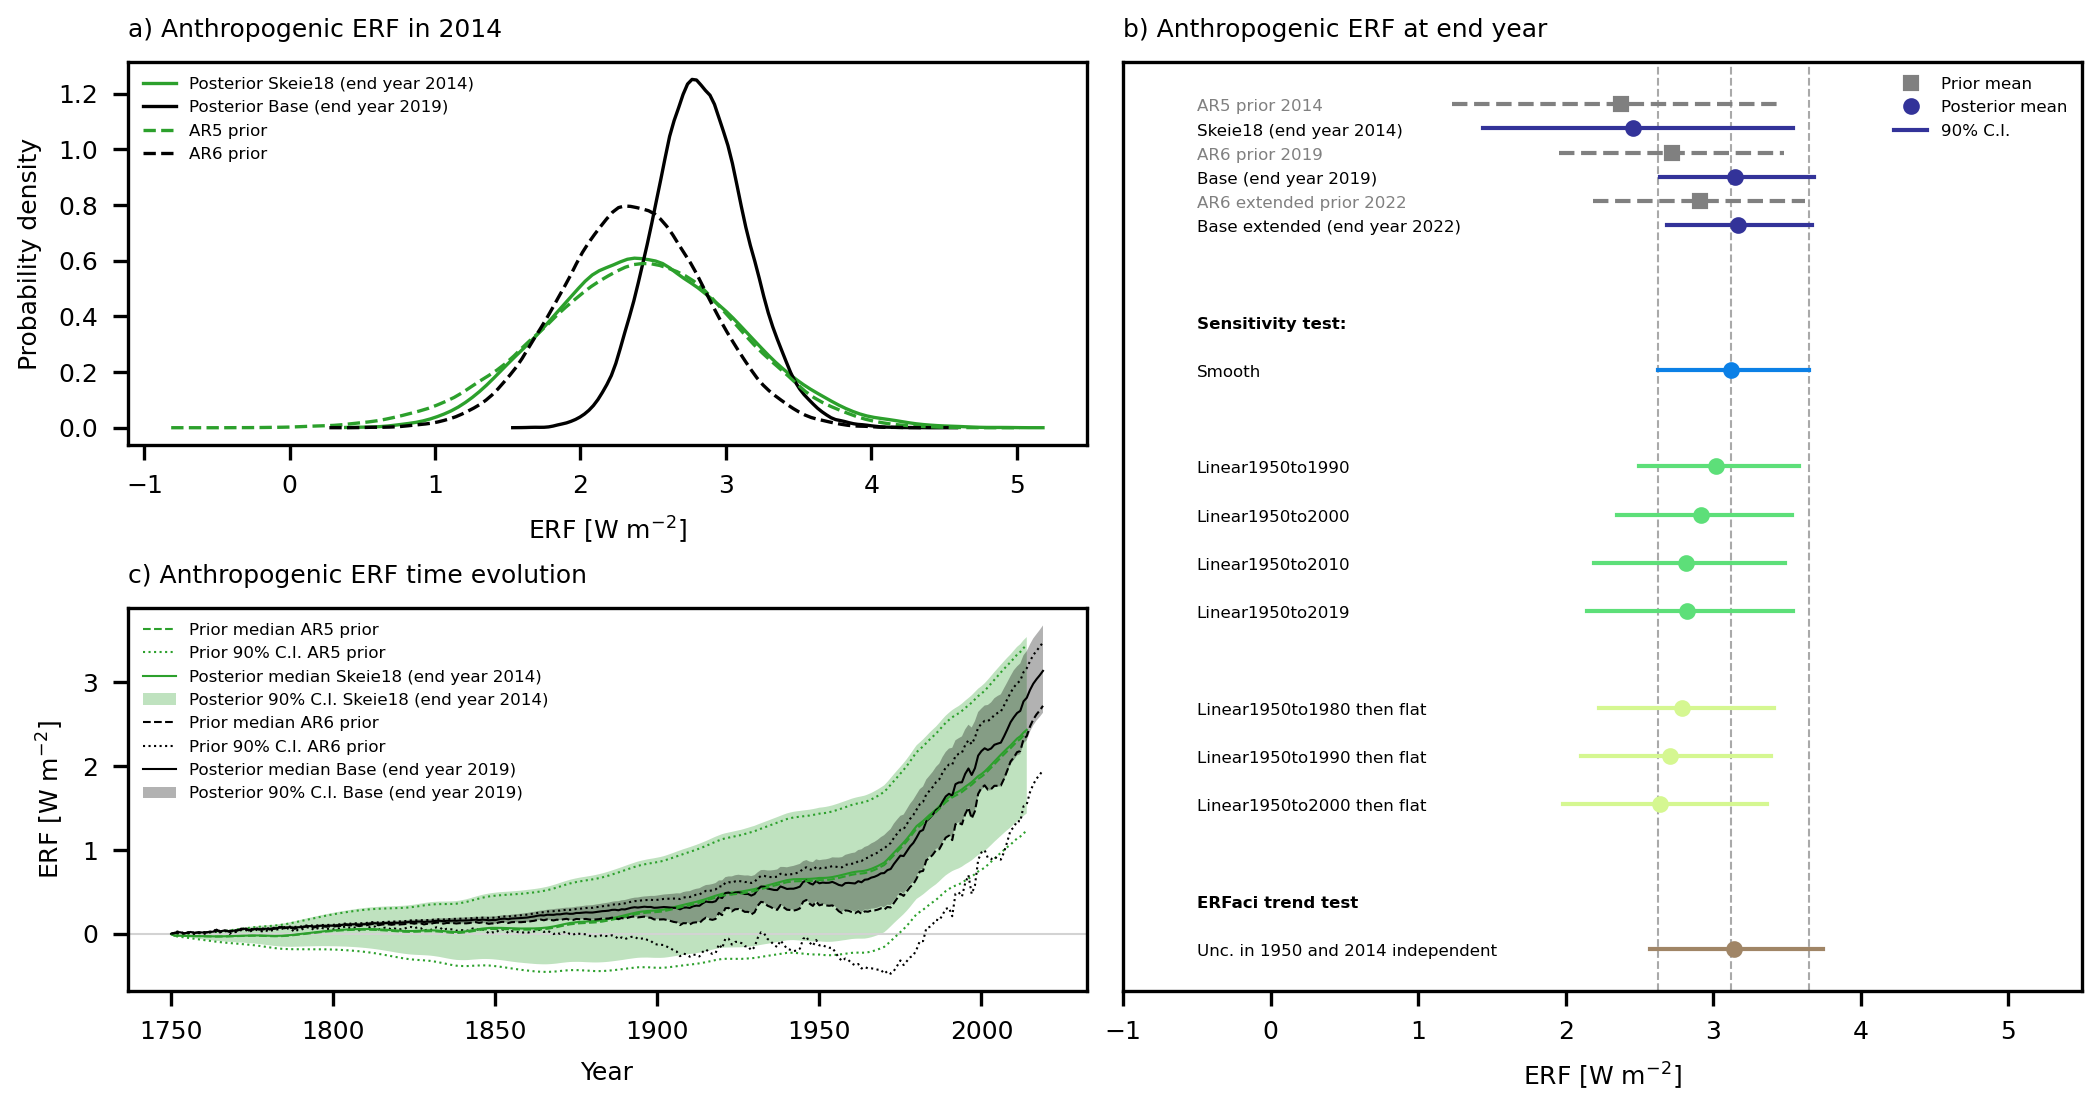
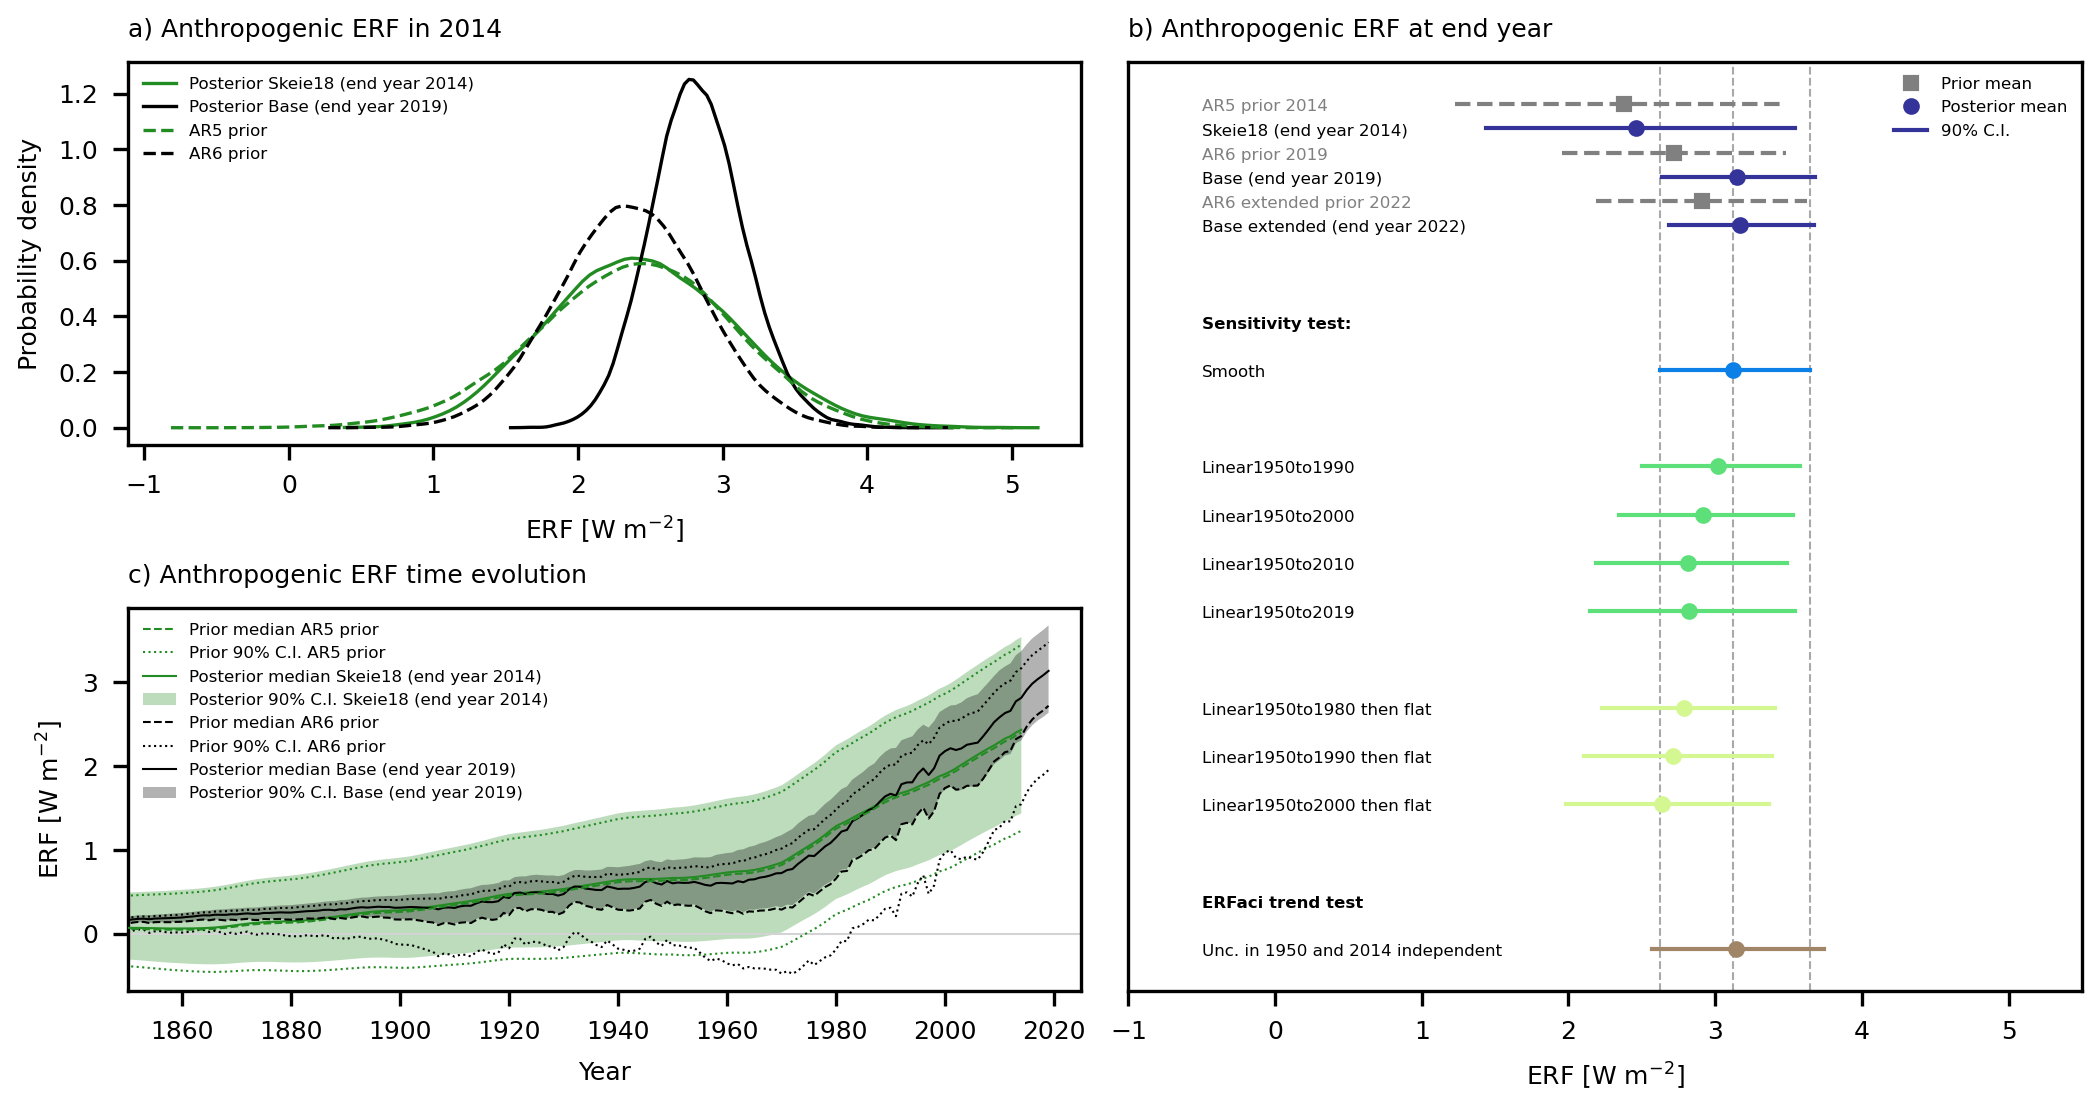
modified panel c ERF fig and added erf_ecs plotting script

diff --git a/scripts_for_figures/plot_heatmap_erf_ecsinf.py b/scripts_for_figures/plot_heatmap_erf_ecsinf.py
@@ -1,0 +1,114 @@
+import numpy as np
+import matplotlib
+import matplotlib.pyplot as plt
+import pandas as pd
+
+from dict_for_simulations import dict_for_simulations
+
+plt.rcParams['font.size'] = 6
+plt.rcParams['figure.dpi'] = 300
+
+def plot_heatmap():
+
+    
+    #Read data climate sensitivity:
+    path_ecs = '/div/qbo/utrics/ClimateSensitivity/updateAR6/scripts_other/ECS_useCO2ERF/results_csv/'
+    filename = 'post_ecs_inf_'+scen+'.csv'
+    post_ecs = pd.read_csv(path_ecs+filename,index_col=0)
+    post_ecs = post_ecs['0']
+    print(post_ecs)
+
+    #Read data on ERF in end year.
+    path_erf = '/div/qbo/utrics/ClimateSensitivity/updateAR6/scripts_other/ERFtrend/results_csv/'
+    filename = 'rf_posterior_timeseriesaero'+scen+'.csv'
+    post_erf = pd.read_csv(path_erf+filename,index_col=0)
+    post_erf = post_erf.loc[year_end]
+    print(post_erf)
+    
+    
+    
+    #######################################################
+    samples = len(post_ecs.index)
+    print(samples)
+    bin = (int(samples*0.001))
+    print(bin)
+
+        
+    N_bins = bin #(int(samples*0.001))
+    
+    yval = post_erf.values #post_rf_glob.values.T
+    xval = post_ecs.values #.T
+    
+
+    # Construct 2D histogram from data using the 'plasma' colormap
+    h=ax.hist2d(xval, yval, bins=N_bins, cmap='plasma',cmin=1,vmax=400)
+
+    # Plot a colorbar with label.
+    cb = plt.colorbar(h[3],ax=ax)
+    cb.set_label('Number of entries')
+
+    # Add title and labels to plot.
+    ax.set_title(letter + scen_list_out[scen],loc='left')
+    ax.set_xlabel('Inferred Effective Climate Sensitivity [K]')
+    ax.set_ylabel('Aerosol ERF [W m$^{-1}$] in '+ str(year_end))
+
+
+    ##############Original prior file
+    path = '/div/qbo/utrics/RadiativeForcing/AR6_extended_2022/'
+    filename = 'ERF_p05_aggregates_1750-2022.csv'
+    rf_ar6_perc05 = pd.read_csv(path+filename,index_col=0)
+    
+    filename = 'ERF_p95_aggregates_1750-2022.csv'
+    rf_ar6_perc95 = pd.read_csv(path+filename,index_col=0)
+    
+    
+    ax.axhline(rf_ar6_perc05['aerosol'].loc[year_end+0.5],linestyle='--',color='gray')
+    ax.axhline(rf_ar6_perc95['aerosol'].loc[year_end+0.5],linestyle='--',color='gray')
+    
+    ax.set_xlim([0,7])
+    ax.set_ylim([-2.5,1])
+
+
+
+print('Start')
+#fig, axs = plt.subplots(nrows=2,ncols=4,sharex=True,figsize=(20,8))
+scen_list_out,scen_colorlist =  dict_for_simulations()
+
+fig, axs = plt.subplots(nrows=1, ncols=2, figsize=(9/1.5,4/1.75)) 
+
+year_end = 2022
+letter = 'a) '
+ax=axs[0]
+scen = 'OutputAnalyse30'
+plot_heatmap()
+
+letter = 'b) '
+ax=axs[1]
+scen = 'OutputAnalyse34'
+plot_heatmap()
+
+plt.tight_layout()
+plt.savefig('Figures/erf_ecs_distr.png')
+
+
+#plt.show()
+exit()
+
+#filepath = '/div/qbo/utrics/ClimateSensitivity/updateAR6/'
+#scen = 'OutputAnalyse02'
+#year_end = 2014
+
[1 lines of base64/hex data omitted]
+#
[1 lines of base64/hex data omitted]
+scen = 'OutputAnalyse19NewPrior_W_cpi_2'
+year_end = 2019
+
+
+ax = axs[0,0]
+print(ax)
+
+plot_heatmap()
+
+# Show the plot.
+plt.show()

diff --git a/scripts_for_figures/plot_rf_prior_post_combined.py b/scripts_for_figures/plot_rf_prior_post_combined.py
@@ -274,7 +274,7 @@ scen_end_yr = {'OutputAnalyse01':2014,
 scen_list_out,scen_colorlist =  dict_for_simulations()
 antscen = len(scen_list_out)
 
-rf_comp = 'aero'#antro' #'antro' #aero' #antro' #'aero' #antro' #'aero' #antro' #'Tot' #'antro' #'aero' #'antro' #'aero'
+rf_comp = 'antro' #'aero'#antro' #'antro' #aero' #antro' #'aero' #antro' #'aero' #antro' #'Tot' #'antro' #'aero' #'antro' #'aero'
 
 rf_list_long = {'Tot':'Total ERF',
                 'antro':'Anthropogenic ERF',
@@ -329,7 +329,7 @@ fig, axes = plt.subplot_mosaic(
 
 ax = axes["bottom left"]
 scen_list = ['OutputAnalyse01','OutputAnalyse19NewPrior_W_cpi_2']
-colorlist = ['C2','black']
+colorlist = ['forestgreen','black']
 #colorlist = [scen_colorlist[scen_list[0]],scen_colorlist[scen_list[1]]]
 plot_results_timeseries_posteriori()
 
@@ -341,7 +341,7 @@ plot_pdf_posterior()
 
 ax = axes["bottom left"]
 scen_list = ['OutputAnalyse01','OutputAnalyse04']
-colorlist = ['C2','black'] #['darkgray','black']
+colorlist = ['forestgreen','black'] #['darkgray','black']
 plot_results_timeseries_prior()
 
 
@@ -384,6 +384,8 @@ axes["top left"].set_xlabel('ERF [W m$^{-2}$]',fontsize=6)
 axes["top left"].set_ylabel('Probability density',fontsize=6)
 axes["bottom left"].set_ylabel('ERF [W m$^{-2}$]',fontsize=6 )
 axes["bottom left"].set_xlabel('Year',fontsize=6 )
+axes["bottom left"].set_xlim([1850,2025])
+
 axes["right"].set_xlabel('ERF [W m$^{-2}$]',fontsize=6 )
 
 
